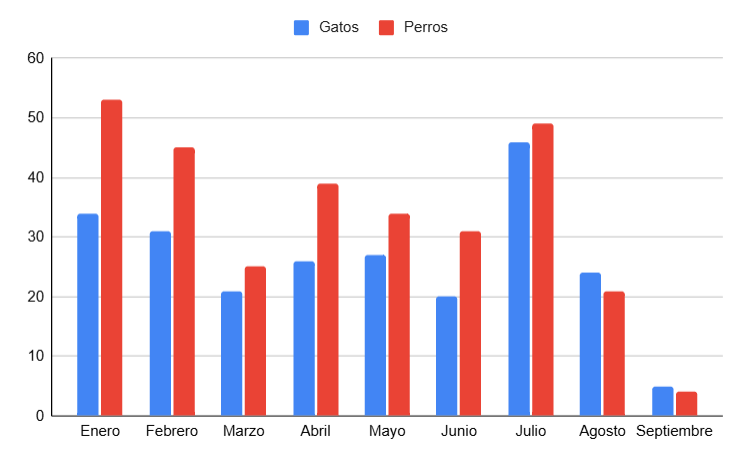
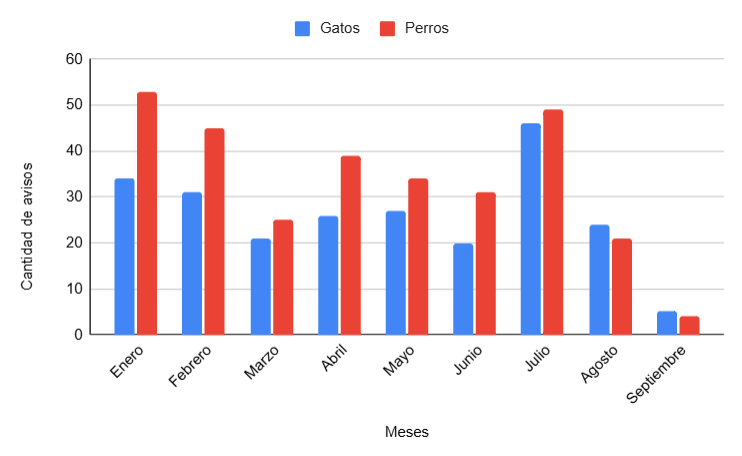
Feat: estadistica finished, agregar-adopcion half done, still missing some stuff on the form

diff --git a/Tarea 1/js/agregar-avisos.js b/Tarea 1/js/agregar-avisos.js
@@ -1,0 +1,110 @@
+//Botón de portada
+const goToPortada = () => {
+    window.location.href = "../html/portada.html"
+}
+
+let portadabtn = document.getElementById("btn-portada");
+portadabtn.addEventListener("click", goToPortada)
+
+// #########################################################################################
+
+// lista d comunas por región
+const comunasPorRegion = {
+    arica_parinacota: ["Arica","Camarones","Putre","General Lagos"],
+
+    tarapaca: ["Iquique","Alto Hospicio","Pozo Almonte","Camiña","Colchane","Huara","Pica"],
+
+    antofagasta: ["Antofagasta","Mejillones","Sierra Gorda","Taltal","Calama","Ollagüe","San Pedro de Atacama",
+        "Tocopilla","María Elena"],
+
+    atacama: ["Copiapó","Caldera","Tierra Amarilla","Chañaral","Diego de Almagro","Vallenar","Alto del Carmen",
+        "Freirina","Huasco"],
+
+    coquimbo: ["La Serena","Coquimbo","Andacollo","La Higuera","Paiguano","Vicuña","Illapel","Canela","Los Vilos",
+        "Salamanca","Ovalle","Combarbalá","Monte Patria","Punitaqui","Río Hurtado"],
+
+    valparaiso: ["Valparaíso","Casablanca","Concón","Juan Fernández","Puchuncaví","Quintero","Viña del Mar","Isla de Pascua",
+        "Los Andes","Calle Larga","Rinconada","San Esteban","La Ligua","Cabildo","Papudo","Petorca","Zapallar","Quillota",
+        "Calera","Hijuelas","La Cruz","Nogales","San Antonio","Algarrobo","Cartagena","El Quisco","El Tabo","Santo Domingo",
+        "San Felipe","Catemu","Llay Llay","Panquehue","Putaendo","Santa María","Quilpué","Limache","Olmué","Villa Alemana"],
+
+    metropolitana: ["Santiago","Cerrillos","Cerro Navia","Conchalí","El Bosque","Estación Central","Huechuraba",
+        "Independencia","La Cisterna","La Florida","La Granja","La Pintana","La Reina","Las Condes","Lo Barnechea",
+        "Lo Espejo","Lo Prado","Macul","Maipú","Ñuñoa","Pedro Aguirre Cerda","Peñalolén","Providencia","Pudahuel",
+        "Quilicura","Quinta Normal","Recoleta","Renca","San Joaquín","San Miguel","San Ramón","Vitacura","Puente Alto",
+        "Pirque","San José de Maipo","Colina","Lampa","Tiltil","San Bernardo","Buin","Calera de Tango","Paine","Melipilla",
+        "Alhué","Curacaví","María Pinto","San Pedro","Talagante","El Monte","Isla de Maipo","Padre Hurtado","Peñaflor"],
+
+    ohiggins: ["Rancagua","Codegua","Coinco","Coltauco","Doñihue","Graneros","Las Cabras","Machalí","Malloa","Mostazal",
+        "Olivar","Peumo","Pichidegua","Quinta de Tilcoco","Rengo","Requínoa","San Vicente","Pichilemu","La Estrella",
+        "Litueche","Marchigüe","Navidad","Paredones","San Fernando","Chépica","Chimbarongo","Lolol","Nancagua","Palmilla",
+        "Peralillo","Placilla","Pumanque","Santa Cruz"],
+
+    maule: ["Talca","Constitución","Curepto","Empedrado","Maule","Pelarco","Pencahue","Río Claro","San Clemente",
+        "San Rafael","Cauquenes","Chanco","Pelluhue","Curicó","Hualañé","Licantén","Molina","Rauco","Romeral",
+        "Sagrada Familia","Teno","Vichuquén","Linares","Colbún","Longaví","Parral","Retiro","San Javier","Villa Alegre",
+        "Yerbas Buenas"],
+
+    nuble: ["Chillán","Chillán Viejo","Cobquecura","Coelemu","Ninhue","Portezuelo","Quirihue","Ránquil","Treguaco",
+        "Bulnes","Quillón","San Ignacio","El Carmen","Pemuco","Yungay","San Carlos","Ñiquén","San Fabián","San Nicolás",
+        "Coihueco"],
+
+    biobio: ["Concepción","Coronel","Chiguayante","Florida","Hualqui","Lota","Penco","San Pedro de la Paz","Santa Juana",
+        "Talcahuano","Tomé","Hualpén","Lebu","Arauco","Cañete","Contulmo","Curanilahue","Los Álamos","Tirúa","Los Ángeles",
+        "Antuco","Cabrero","Laja","Mulchén","Nacimiento","Negrete","Quilaco","Quilleco","San Rosendo","Santa Bárbara",
+        "Tucapel","Yumbel","Alto Biobío"],
+
+    araucania: ["Temuco","Carahue","Cunco","Curarrehue","Freire","Galvarino","Gorbea","Lautaro","Loncoche","Melipeuco",
+        "Nueva Imperial","Padre Las Casas","Perquenco","Pitrufquén","Pucón","Saavedra","Teodoro Schmidt","Toltén",
+        "Vilcún","Villarrica","Cholchol","Angol","Collipulli","Curacautín","Ercilla","Lonquimay","Los Sauces","Lumaco",
+        "Purén","Renaico","Traiguén","Victoria"],
+
+    los_rios: ["Valdivia","Corral","Lanco","Los Lagos","Máfil","Mariquina","Paillaco","Panguipulli","La Unión",
+        "Futrono","Lago Ranco","Río Bueno"],
+
+    los_lagos: ["Puerto Montt","Calbuco","Cochamó","Fresia","Frutillar","Llanquihue","Los Muermos","Maullín","Puerto Varas",
+        "Castro","Ancud","Chonchi","Curaco de Vélez","Dalcahue","Puqueldón","Queilén","Quellón","Quemchi","Quinchao",
+        "Osorno","Puerto Octay","Purranque","Puyehue","Río Negro","San Juan de la Costa","San Pablo","Chaitén",
+        "Futaleufú","Hualaihué","Palena"],
+
+    aysen: ["Coyhaique","Lago Verde","Aysén","Cisnes","Guaitecas","Cochrane","O’Higgins","Tortel","Chile Chico",
+        "Río Ibáñez"],
+
+    magallanes: ["Punta Arenas","Laguna Blanca","Río Verde","San Gregorio","Cabo de Hornos","Antártica","Porvenir",
+        "Primavera","Timaukel","Natales","Torres del Paine"]
+};
+
+const regionSelect = document.getElementById("region");
+const comunaSelect = document.getElementById("comuna");
+
+//crea un nuevo option con la comuna q corresponda
+const agregarComuna = (comuna) =>{
+    const option = document.createElement("option");
+    const valueBonito = comuna.toLowerCase().replace(/\s+/g, "-");
+    option.value = valueBonito;
+
+    option.textContent = comuna;
+
+    comunaSelect.appendChild(option)
+}
+
+//cambia las comunas cuando se cambia la región
+const changeComuna = () =>{
+    const regionSeleccionada = regionSelect.value
+
+    //si se cambia la región, se limpia la comuna
+    comunaSelect.innerHTML = '<option value="">-- Selecciona una comuna --</option>';
+
+    if (regionSeleccionada && comunasPorRegion[regionSeleccionada]) {
+        for(let comuna of comunasPorRegion[regionSeleccionada]){
+            agregarComuna(comuna)
+        }
+    }
+
+}
+
+regionSelect.addEventListener("change", changeComuna)
+
+// #########################################################################################
+
+

diff --git a/Tarea 1/html/agregar-avisos.html b/Tarea 1/html/agregar-avisos.html
@@ -7,6 +7,64 @@
     </head>
     <body>
         <h1>Agregar aviso de adopción</h1>
+        <form class="formulario" id="agrear-avisos">
+            <h3 class="titulos-forms">¿Donde?</h3>
+            <label for="region">Región:</label>
+            <select id="region" name="region">
+                <option value="">-- Selecciona una región</option>
+                <option value="arica_parinacota">Arica y Parinacota</option>
+                <option value="tarapaca">Tarapacá</option>
+                <option value="antofagasta">Antofagasta</option>
+                <option value="atacama">Atacama</option>
+                <option value="coquimbo">Coquimbo</option>
+                <option value="valparaiso">Valparaíso</option>
+                <option value="metropolitana">Metropolitana</option>
+                <option value="ohiggins">O’Higgins</option>
+                <option value="maule">Maule</option>
+                <option value="nuble">Ñuble</option>
+                <option value="biobio">Biobío</option>
+                <option value="araucania">La Araucanía</option>
+                <option value="los_rios">Los Ríos</option>
+                <option value="los_lagos">Los Lagos</option>
+                <option value="aysen">Aysén</option>
+                <option value="magallanes">Magallanes y Antártica Chilena</option>
+            </select> 
+            
+            <br> <br>
+
+            <label for="comuna">Comuna:</label>
+            <select id="comuna">
+                <option value="">-- Selecciona una comuna --</option>
+            </select>
+
+            <br> <br>
+
+            <label for="sector">Sector:</label>
+            <input id="sector" name="sector" type="text" maxlenght="100">
+
+            <br> <br>
+
+            <h3 class="titulos-forms">¿Contacto de esta publicación?</h3>
+            <label for="nombre">Nombre:</label>
+            <input id="nombre" name="nombre" type="text" minlenght="4" maxlength="200">
+
+            <br> <br>
+
+            <label for="email">Email:</label>
+            <input id="email" name="email" type="email">
+
+            <br><br>
+
+            <label for="nro-celular">Número de celular:</label>
+            <input id="nro-celular" name="nro-celular" type="tel">
+
+            <br><br>
+
+
+
+        </form> 
+
+        <button type="button" id="btn-portada">Ir a la portada</button>
 
         <script src="../js/agregar-avisos.js"></script>
     </body>

diff --git a/Tarea 1/html/estadisticas.html b/Tarea 1/html/estadisticas.html
@@ -14,7 +14,7 @@
             <span font-weight="bold">Cantidad de avisos de adopción por día</span>
         </h4>
 
-        <img src="../" alt="graph-lines avisos por día">
+        <img src="../cantidad-diaria.png" alt="graph-lines avisos por día">
 
         <h4>
             <span font-weight="bold">Total de avisos por tipo de mascota</span>

diff --git a/Tarea 1/js/adopciones.js b/Tarea 1/js/adopciones.js
@@ -17,6 +17,8 @@ for (let id in filas) {
   }
 }
 
+// #########################################################################################
+
 //Botón de portada
 const goToPortada = () => {
     window.location.href = "../html/portada.html"
